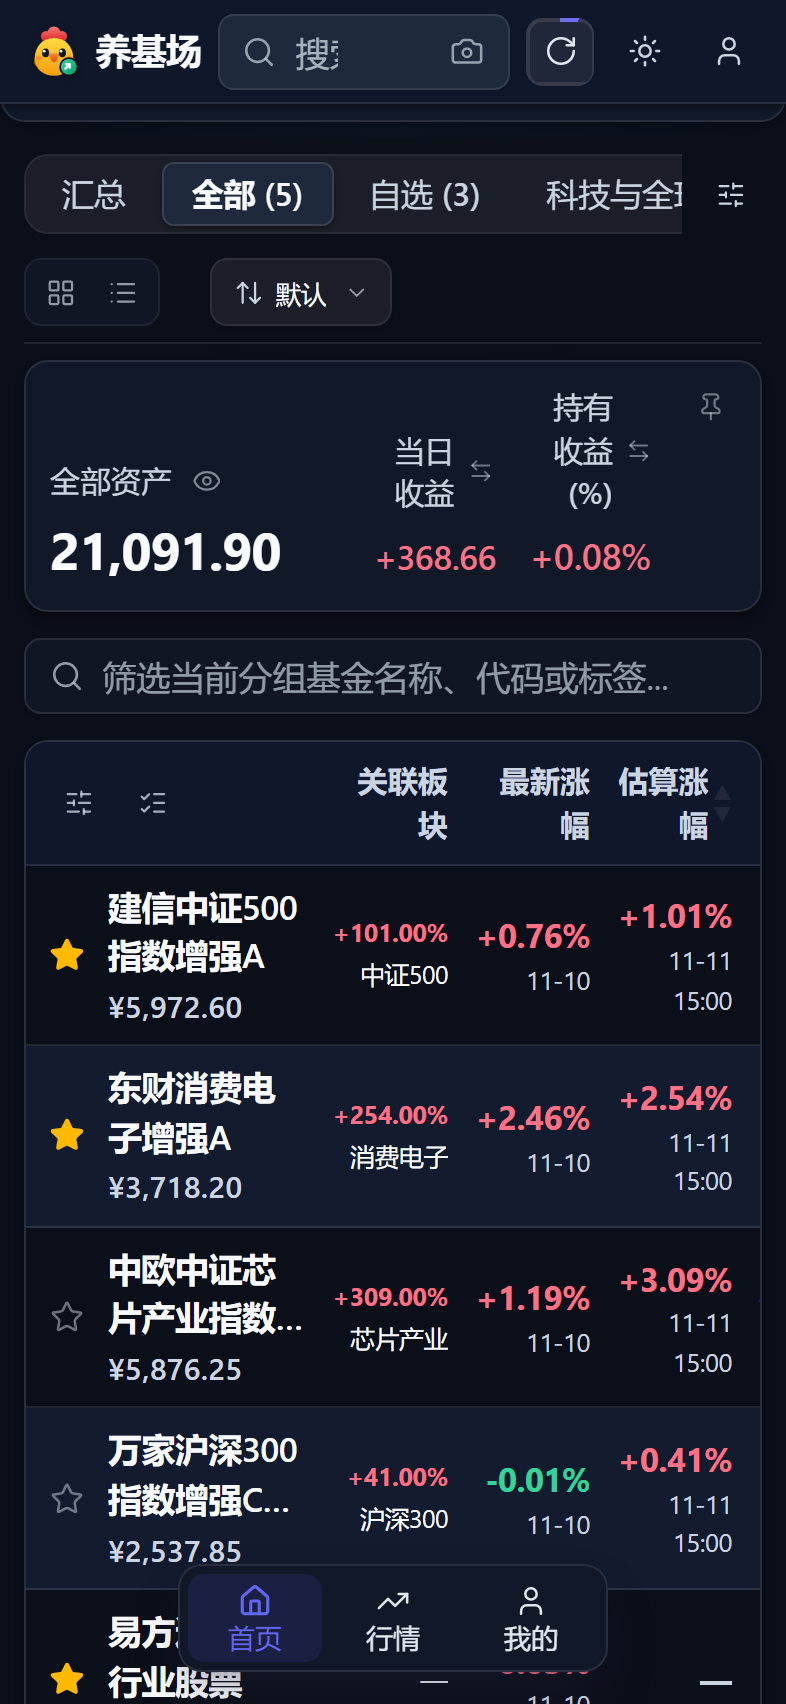
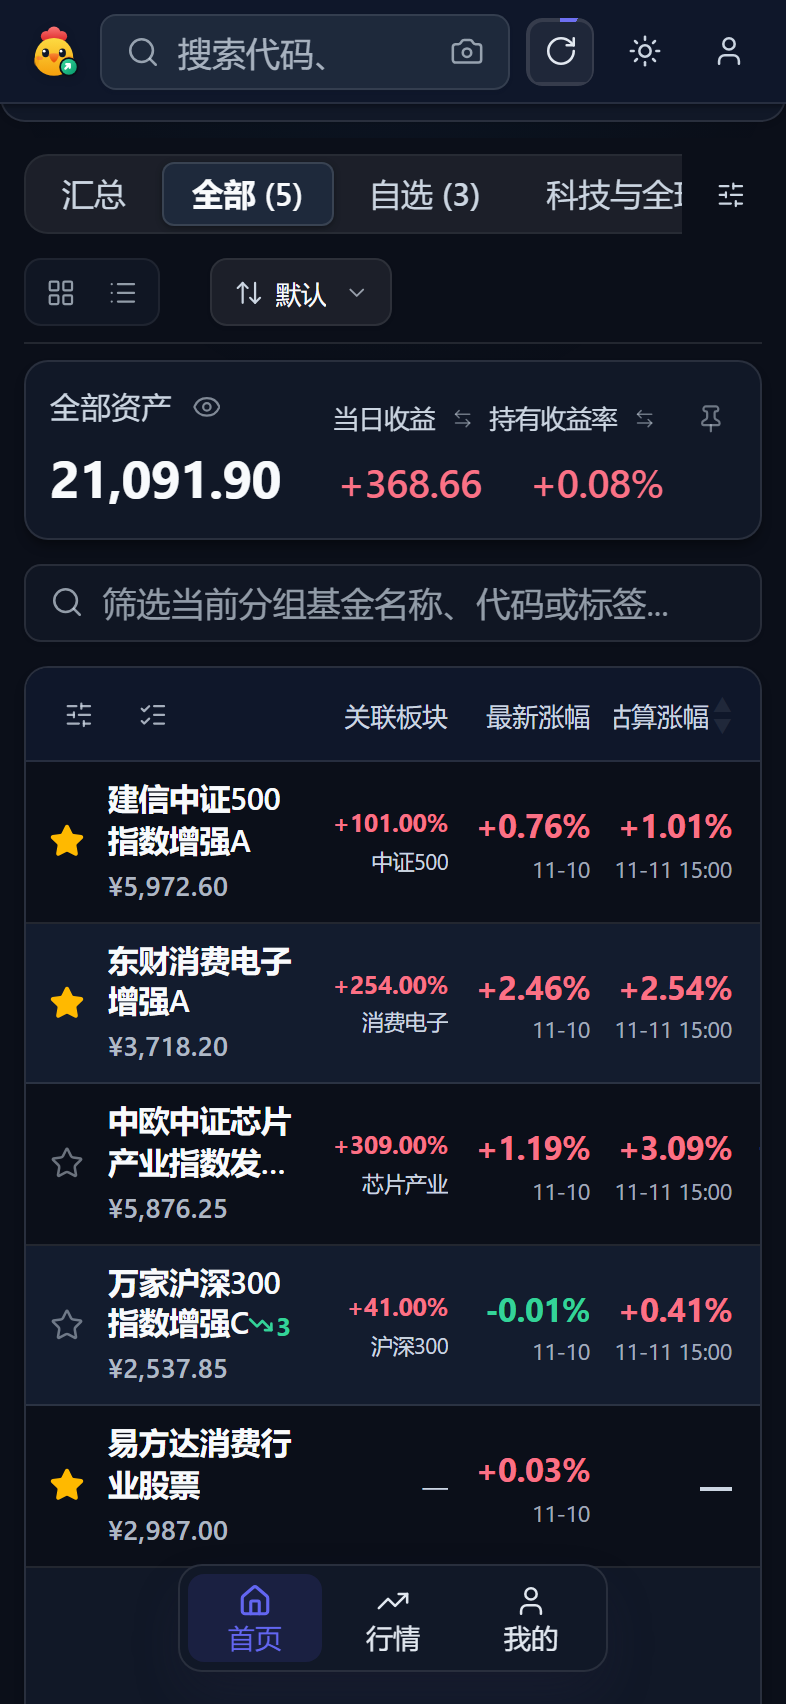
style(mobile): 深度打磨小屏可读性与响应式排版，根除列头折行与顶栏挤压问题

diff --git a/app/components/GroupSummary.tsx b/app/components/GroupSummary.tsx
@@ -236,7 +236,7 @@ export default function GroupSummary({
       <div className="glass card group-summary-card mb-3 p-4 md:px-6 md:py-4 rounded-xl border border-border shadow-sm">
         <div className="flex items-end justify-between min-w-0 gap-4">
           {/* 左侧：全部资产与总额 (严格光学左对齐) */}
-          <div className="flex-[4] min-w-0">
+          <div className="flex-[4] md:flex-[5] shrink-0 min-w-0">
             <div className="flex items-center gap-1.5 mb-1.5">
               <span className="text-sm font-medium text-muted-foreground tracking-wide" key={portfolioTabId}>
                 {portfolioScopeLabel}
@@ -301,23 +301,23 @@ export default function GroupSummary({
           </div>
 
           {/* 右侧：当日收益、持有收益与吸顶固定按钮 */}
-          <div className="flex gap-4 md:gap-6 flex-[5] min-w-0 justify-end items-end">
+          <div className="flex gap-2.5 sm:gap-4 md:gap-6 flex-[7] md:flex-[5] min-w-0 justify-end items-end">
             {/* 当日收益 */}
             <div className="text-right flex-1 min-w-0">
-              <div className="text-sm font-medium text-muted-foreground mb-1.5 flex justify-end items-center gap-1.5">
-                <span>当日收益{showTodayPercent ? '(%)' : ''}</span>
+              <div className="text-xs md:text-sm font-medium text-muted-foreground mb-1.5 flex justify-end items-center gap-1 whitespace-nowrap">
+                <span className="whitespace-nowrap shrink-0">{showTodayPercent ? '当日收益率' : '当日收益'}</span>
                 <Tooltip>
                   <TooltipTrigger asChild>
                     <button
                       type="button"
-                      className="size-5 rounded text-muted-foreground/50 hover:text-primary hover:bg-primary/10 active:scale-95 transition-all cursor-pointer inline-flex items-center justify-center"
+                      className="size-4.5 md:size-5 rounded text-muted-foreground/50 hover:text-primary hover:bg-primary/10 active:scale-95 transition-all cursor-pointer inline-flex items-center justify-center shrink-0"
                       onClick={(e) => {
                         e.stopPropagation();
                         if (summary.hasAnyTodayData) setShowTodayPercent(!showTodayPercent);
                       }}
                       aria-label="切换金额与百分比"
                     >
-                      <ArrowLeftRight className="size-3" strokeWidth={1.8} />
+                      <ArrowLeftRight className="size-2.5 md:size-3" strokeWidth={1.8} />
                     </button>
                   </TooltipTrigger>
                   <TooltipContent side="bottom" sideOffset={4}>
@@ -379,20 +379,20 @@ export default function GroupSummary({
 
             {/* 持有收益 */}
             <div className={`text-right ${isMobile ? 'flex-1' : ''} min-w-0`}>
-              <div className="text-sm font-medium text-muted-foreground mb-1.5 flex justify-end items-center gap-1.5">
-                <span>持有收益{showPercent ? '(%)' : ''}</span>
+              <div className="text-xs md:text-sm font-medium text-muted-foreground mb-1.5 flex justify-end items-center gap-1 whitespace-nowrap">
+                <span className="whitespace-nowrap shrink-0">{showPercent ? '持有收益率' : '持有收益'}</span>
                 <Tooltip>
                   <TooltipTrigger asChild>
                     <button
                       type="button"
-                      className="size-5 rounded text-muted-foreground/50 hover:text-primary hover:bg-primary/10 active:scale-95 transition-all cursor-pointer inline-flex items-center justify-center"
+                      className="size-4.5 md:size-5 rounded text-muted-foreground/50 hover:text-primary hover:bg-primary/10 active:scale-95 transition-all cursor-pointer inline-flex items-center justify-center shrink-0"
                       onClick={(e) => {
                         e.stopPropagation();
                         setShowPercent(!showPercent);
                       }}
                       aria-label="切换金额与百分比"
                     >
-                      <ArrowLeftRight className="size-3" strokeWidth={1.8} />
+                      <ArrowLeftRight className="size-2.5 md:size-3" strokeWidth={1.8} />
                     </button>
                   </TooltipTrigger>
                   <TooltipContent side="bottom" sideOffset={4}>

diff --git a/app/components/MobileFundTable.tsx b/app/components/MobileFundTable.tsx
@@ -1176,24 +1176,24 @@ const MobileFundTable = memo(function MobileFundTable({
     [EDIT_MOVE_TO_FRONT_COL]: 72,
     [EDIT_DRAG_COL]: 72,
     tags: 120,
-    relatedSector: 120,
+    relatedSector: 110,
     period1w: 72,
     period1m: 72,
     period3m: 72,
     period6m: 72,
     period1y: 72,
-    latestNav: 64,
-    estimateNav: 64,
-    yesterdayChangePercent: 72,
-    estimateChangePercent: 80,
+    latestNav: 72,
+    estimateNav: 72,
+    yesterdayChangePercent: 78,
+    estimateChangePercent: 82,
     sinceAddedChangePercent: 80,
     totalChangePercent: 80,
-    holdingDays: 64,
+    holdingDays: 68,
     todayProfit: 80,
     yesterdayProfit: 80,
     holdingProfit: 80,
     holdingCost: 80,
-    costNav: 64
+    costNav: 70
   };
 
   const relatedSectorEnabled = mobileColumnVisibility?.relatedSector !== false;
@@ -1990,7 +1990,8 @@ const MobileFundTable = memo(function MobileFundTable({
                     textOverflow: 'ellipsis',
                     whiteSpace: 'nowrap',
                     textAlign: 'right',
-                    fontSize: pctText != null ? '12.5px' : '14px'
+                    fontSize: pctText != null ? '11px' : '13px',
+                    color: 'var(--muted-foreground)'
                   }}
                 >
                   {firstLine}
@@ -2249,7 +2250,7 @@ const MobileFundTable = memo(function MobileFundTable({
                     {info.getValue() ?? '—'}
                   </span>
                 </span>
-                <span className="muted" style={{ fontSize: '13px' }}>
+                <span className="text-[11px] text-muted-foreground/80 tabular-nums leading-tight block mt-0.5">
                   {displayDate}
                 </span>
               </div>
@@ -2283,7 +2284,7 @@ const MobileFundTable = memo(function MobileFundTable({
                   </span>
                 </span>
                 {hasEstimateNav && displayDate && displayDate !== '-' ? (
-                  <span className="muted" style={{ fontSize: '13px' }}>
+                  <span className="text-[11px] text-muted-foreground/80 tabular-nums leading-tight block mt-0.5">
                     {displayDate}
                   </span>
                 ) : null}
@@ -2316,7 +2317,7 @@ const MobileFundTable = memo(function MobileFundTable({
                     {info.getValue() ?? '—'}
                   </span>
                 </span>
-                <span className="muted" style={{ fontSize: '13px' }}>
+                <span className="text-[11px] text-muted-foreground/80 tabular-nums leading-tight block mt-0.5">
                   {displayDate}
                 </span>
               </div>
@@ -2352,7 +2353,7 @@ const MobileFundTable = memo(function MobileFundTable({
                   </span>
                 </span>
                 {hasText && displayTime && displayTime !== '-' ? (
-                  <span className="muted" style={{ fontSize: '13px' }}>
+                  <span className="text-[11px] text-muted-foreground/80 tabular-nums leading-tight block mt-0.5">
                     {displayTime}
                   </span>
                 ) : null}
@@ -2877,10 +2878,16 @@ const MobileFundTable = memo(function MobileFundTable({
                     : alignClass.includes('text-right')
                       ? 'flex-end'
                       : 'flex-start',
-                  width: '100%'
+                  width: '100%',
+                  whiteSpace: 'nowrap',
+                  wordBreak: 'keep-all'
                 }}
               >
-                {header.isPlaceholder ? null : flexRender(header.column.columnDef.header, header.getContext())}
+                {header.isPlaceholder ? null : (
+                  <span style={{ whiteSpace: 'nowrap', wordBreak: 'keep-all' }}>
+                    {flexRender(header.column.columnDef.header, header.getContext())}
+                  </span>
+                )}
                 {isSortEnabled && (
                   <span
                     style={{

diff --git a/app/globals.css b/app/globals.css
@@ -1781,6 +1781,7 @@ html::-webkit-scrollbar-thumb:active,
   .mobile-fund-table {
     overflow-x: auto;
     -webkit-overflow-scrolling: touch;
+    padding-bottom: calc(var(--mobile-bottom-nav-height, 56px) + 36px);
   }
 
   .mobile-fund-table-scroll {
@@ -1825,7 +1826,11 @@ html::-webkit-scrollbar-thumb:active,
     align-items: center;
     min-width: 0;
     overflow: hidden;
-    font-size: 14px;
+    font-size: 12px;
+    font-weight: 500;
+    color: var(--muted-foreground);
+    white-space: nowrap !important;
+    word-break: keep-all !important;
   }
 
   /* 移动端表格行：长按进批量/排序时尽量避免系统文字选择与 iOS 放大镜/呼出菜单（兼容 WebKit / Chromium） */
@@ -1953,10 +1958,12 @@ html::-webkit-scrollbar-thumb:active,
     min-height: 100%;
   }
 
-  /* 移动端表格表体基金名称字体优化（提升易读性） */
+  /* 移动端表格表体基金名称字体优化（提升易读性与留白呼吸感） */
   .mobile-fund-table .table-row .name-cell .name-text {
-    font-size: 16px;
+    font-size: 14.5px;
     font-weight: 600;
+    line-height: 1.35;
+    letter-spacing: -0.01em;
     display: -webkit-box;
     -webkit-line-clamp: 2;
     -webkit-box-orient: vertical;
@@ -1971,7 +1978,9 @@ html::-webkit-scrollbar-thumb:active,
   }
 
   .mobile-fund-table .table-row .name-cell .code-text {
-    font-size: 14px;
+    font-size: 12.5px;
+    font-weight: 500;
+    opacity: 0.85;
   }
 
   .mobile-fund-table .value-cell {

diff --git a/app/components/SearchBar.tsx b/app/components/SearchBar.tsx
@@ -119,7 +119,7 @@ export default function SearchBar({
               'h-[38px] w-full rounded-lg pl-9 text-[16PX] md:text-sm bg-card border-border shadow-[0_1px_2px_rgba(50,50,93,0.06),0_1px_1px_rgba(0,0,0,0.04)] text-foreground placeholder:text-muted-foreground/80 focus-visible:ring-2 focus-visible:ring-primary/20 focus-visible:border-primary transition-[border-color,box-shadow,background-color] duration-150 ease-out',
               hasValue ? 'pr-16' : 'pr-20'
             )}
-            placeholder="搜索基金名称或代码..."
+            placeholder="搜索代码、名称..."
             value={searchTerm}
             onChange={handleSearchInput}
             onFocus={() => setShowDropdown(true)}

diff --git a/app/components/BrandLogo.tsx b/app/components/BrandLogo.tsx
@@ -115,7 +115,7 @@ export const BrandLogo = React.memo(function BrandLogo({ isSyncing = false }: Br
         </svg>
       </div>
 
-      <span className="text-[17px] font-semibold tracking-tight text-foreground">养基场</span>
+      <span className="hidden min-[420px]:inline text-[16px] font-semibold tracking-tight text-foreground">养基场</span>
     </div>
   );
 });
